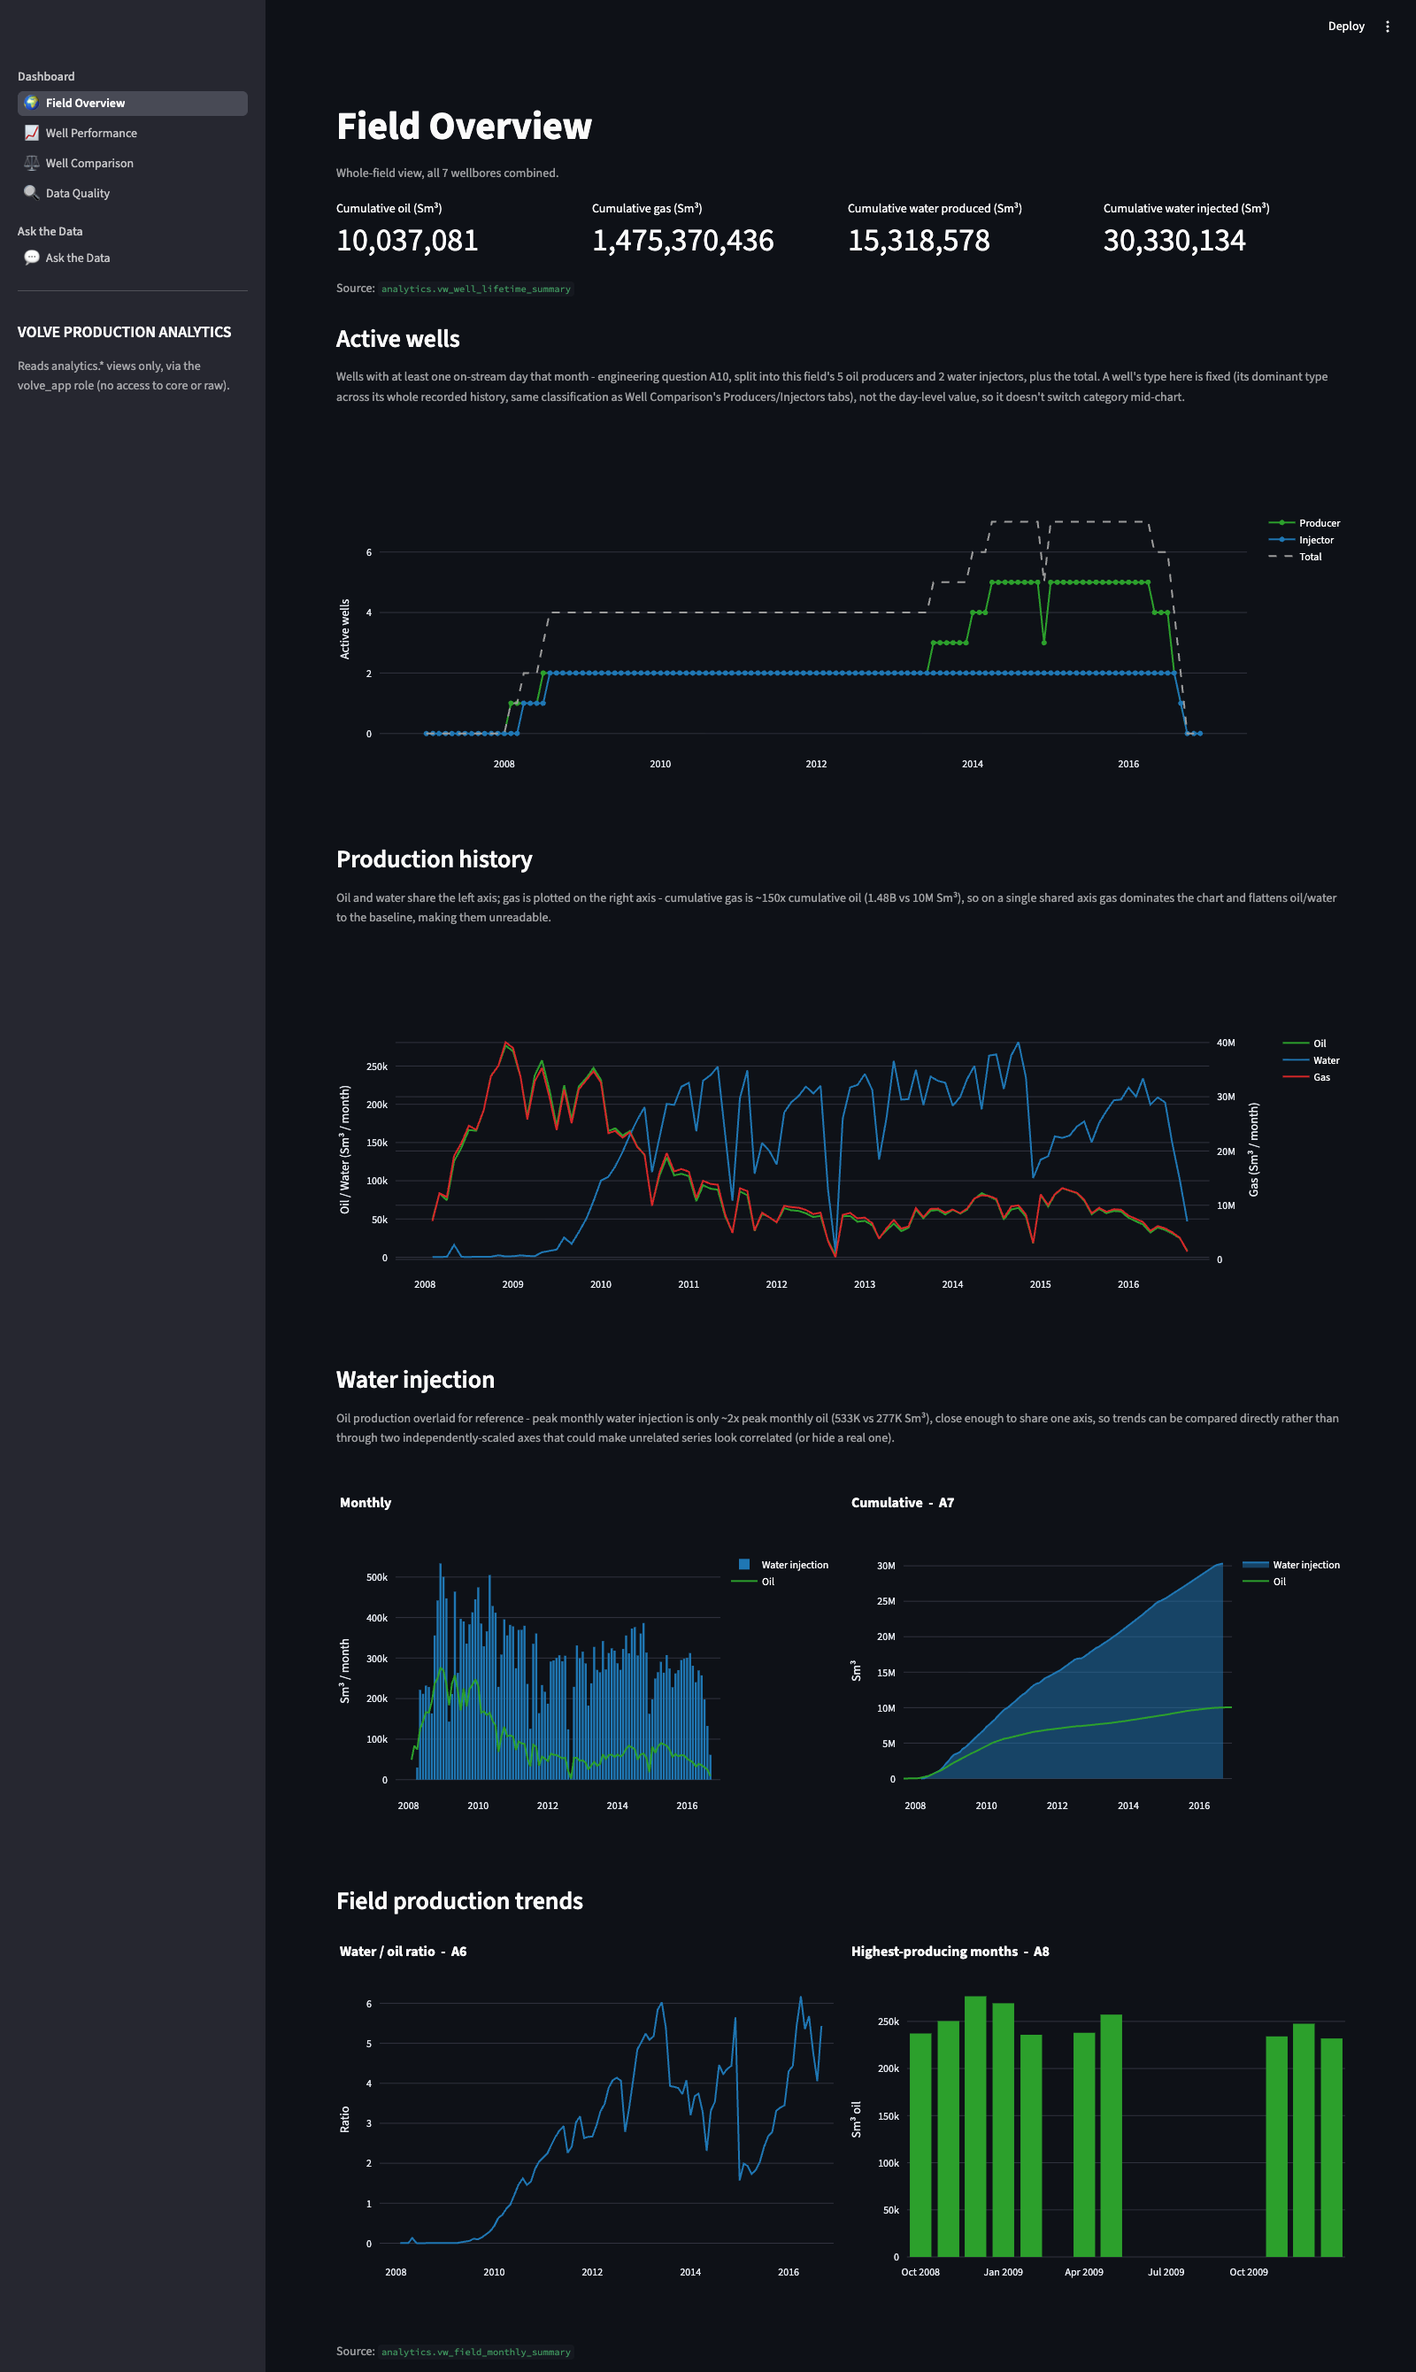
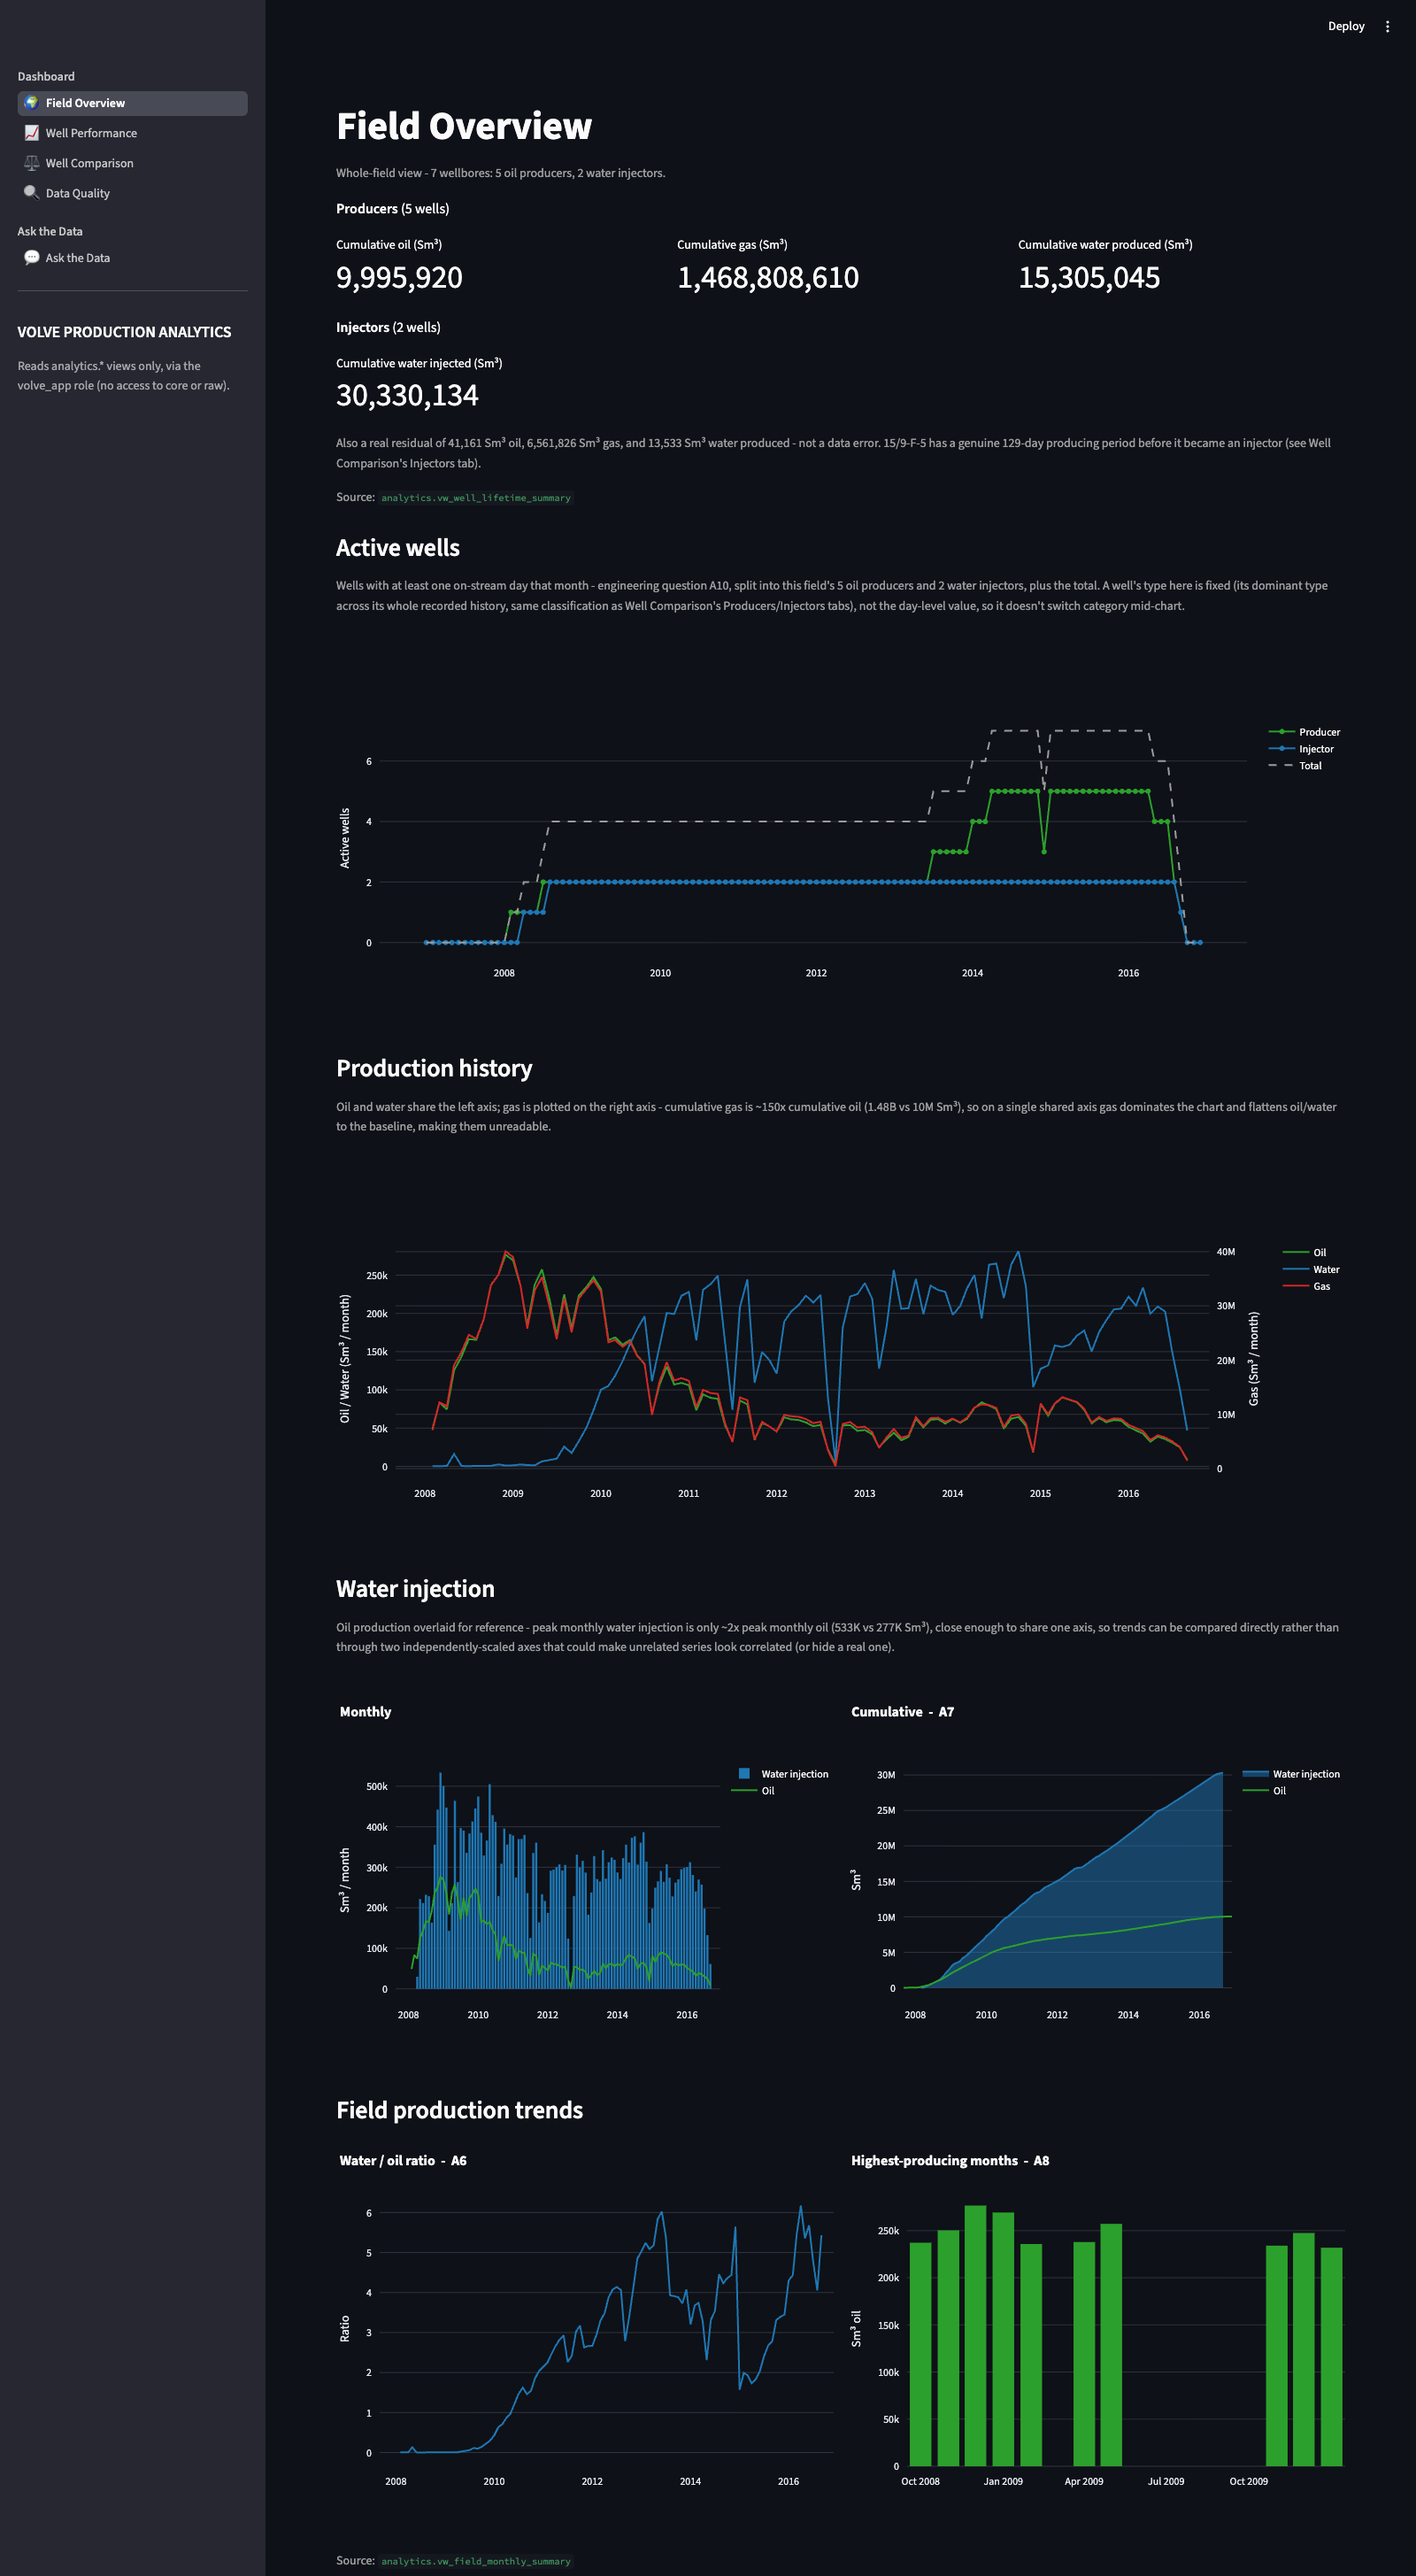
Split Field Overview's top KPIs into Producers and Injectors
Replaced field_kpis() (a single flat row summing all 7 wells together)
with field_kpis_by_type(), grouped by each well's dominant type - the
same classification used throughout Well Comparison and elsewhere.
Producers get 3 KPIs (oil/gas/water produced); Injectors get their real
defining metric (water injected) as the prominent KPI.

Injectors aren't purely water injection, though: 15/9-F-5 has a genuine
129-day producing period before it became an injector, contributing a
real, non-trivial residual (~41K Sm3 oil, ~6.6M Sm3 gas, ~13.5K Sm3
water) to the injector totals. Shown via caption rather than netted out
or hidden - consistent with this project's "missing/residual values stay
visible" approach everywhere else. min_count=1 on the groupby sum so an
all-NULL group (e.g. producers' water injection) stays NULL, not 0.

The page-level caption ("7 wellbores: 5 oil producers, 2 water injectors")
makes it evident up front that the field has both types, per the request.

diff --git a/app/queries.py b/app/queries.py
@@ -69,16 +69,30 @@ def list_wells() -> pd.DataFrame:
     return df
 
 
-def field_kpis() -> pd.DataFrame:
-    """analytics.vw_well_lifetime_summary - field-wide cumulative totals"""
-    return run_query(f"""
-        SELECT
-            SUM(total_oil)             AS total_oil,
-            SUM(total_gas)             AS total_gas,
-            SUM(total_water)           AS total_water,
-            SUM(total_water_injection) AS total_water_injection
+def field_kpis_by_type() -> pd.DataFrame:
+    """
+    analytics.vw_well_lifetime_summary + list_wells() - field-wide cumulative
+    totals split by well type (dominant type per well, same classification
+    used everywhere else in this app). The 2 injectors aren't purely water
+    injection:
+    15/9-F-5 has a real 129-day producing period before it became an
+    injector, so its oil/gas/water contribute a real, non-trivial residual
+    to the injector totals here (~41K Sm3 oil) - shown, not netted out.
+    min_count=1 so an all-NULL group sums to NULL, not 0 (e.g. if producers
+    never inject at all).
+    """
+    lifetime = run_query(f"""
+        SELECT npd_well_bore_code, total_oil, total_gas, total_water, total_water_injection
         FROM {VIEW_LIFETIME}
     """)
+    wells = list_wells()
+    merged = lifetime.merge(wells[["npd_well_bore_code", "well_type_label"]], on="npd_well_bore_code")
+    return (
+        merged.groupby("well_type_label")[["total_oil", "total_gas", "total_water", "total_water_injection"]]
+        .sum(min_count=1)
+        .reset_index()
+        .rename(columns={"well_type_label": "well_type"})
+    )
 
 
 def field_monthly() -> pd.DataFrame:

diff --git a/app/views/field_overview.py b/app/views/field_overview.py
@@ -12,14 +12,27 @@ import colors as c
 import queries as q
 
 st.title("Field Overview")
-st.caption("Whole-field view, all 7 wellbores combined.")
+st.caption("Whole-field view - 7 wellbores: 5 oil producers, 2 water injectors.")
 
-kpis = q.field_kpis().iloc[0]
-c1, c2, c3, c4 = st.columns(4)
-c1.metric("Cumulative oil (Sm³)", f"{kpis['total_oil']:,.0f}")
-c2.metric("Cumulative gas (Sm³)", f"{kpis['total_gas']:,.0f}")
-c3.metric("Cumulative water produced (Sm³)", f"{kpis['total_water']:,.0f}")
-c4.metric("Cumulative water injected (Sm³)", f"{kpis['total_water_injection']:,.0f}")
+kpis_by_type = q.field_kpis_by_type().set_index("well_type")
+producer_kpis = kpis_by_type.loc["Producer"]
+injector_kpis = kpis_by_type.loc["Injector"]
+
+st.markdown("**Producers**  (5 wells)")
+p1, p2, p3 = st.columns(3)
+p1.metric("Cumulative oil (Sm³)", f"{producer_kpis['total_oil']:,.0f}")
+p2.metric("Cumulative gas (Sm³)", f"{producer_kpis['total_gas']:,.0f}")
+p3.metric("Cumulative water produced (Sm³)", f"{producer_kpis['total_water']:,.0f}")
+
+st.markdown("**Injectors**  (2 wells)")
+st.metric("Cumulative water injected (Sm³)", f"{injector_kpis['total_water_injection']:,.0f}")
+st.caption(
+    f"Also a real residual of {injector_kpis['total_oil']:,.0f} Sm³ oil, "
+    f"{injector_kpis['total_gas']:,.0f} Sm³ gas, and {injector_kpis['total_water']:,.0f} Sm³ "
+    "water produced - not a data error. 15/9-F-5 has a genuine 129-day "
+    "producing period before it became an injector (see Well Comparison's "
+    "Injectors tab)."
+)
 st.caption(f"Source: `{q.VIEW_LIFETIME}`")
 
 field = q.field_monthly()
